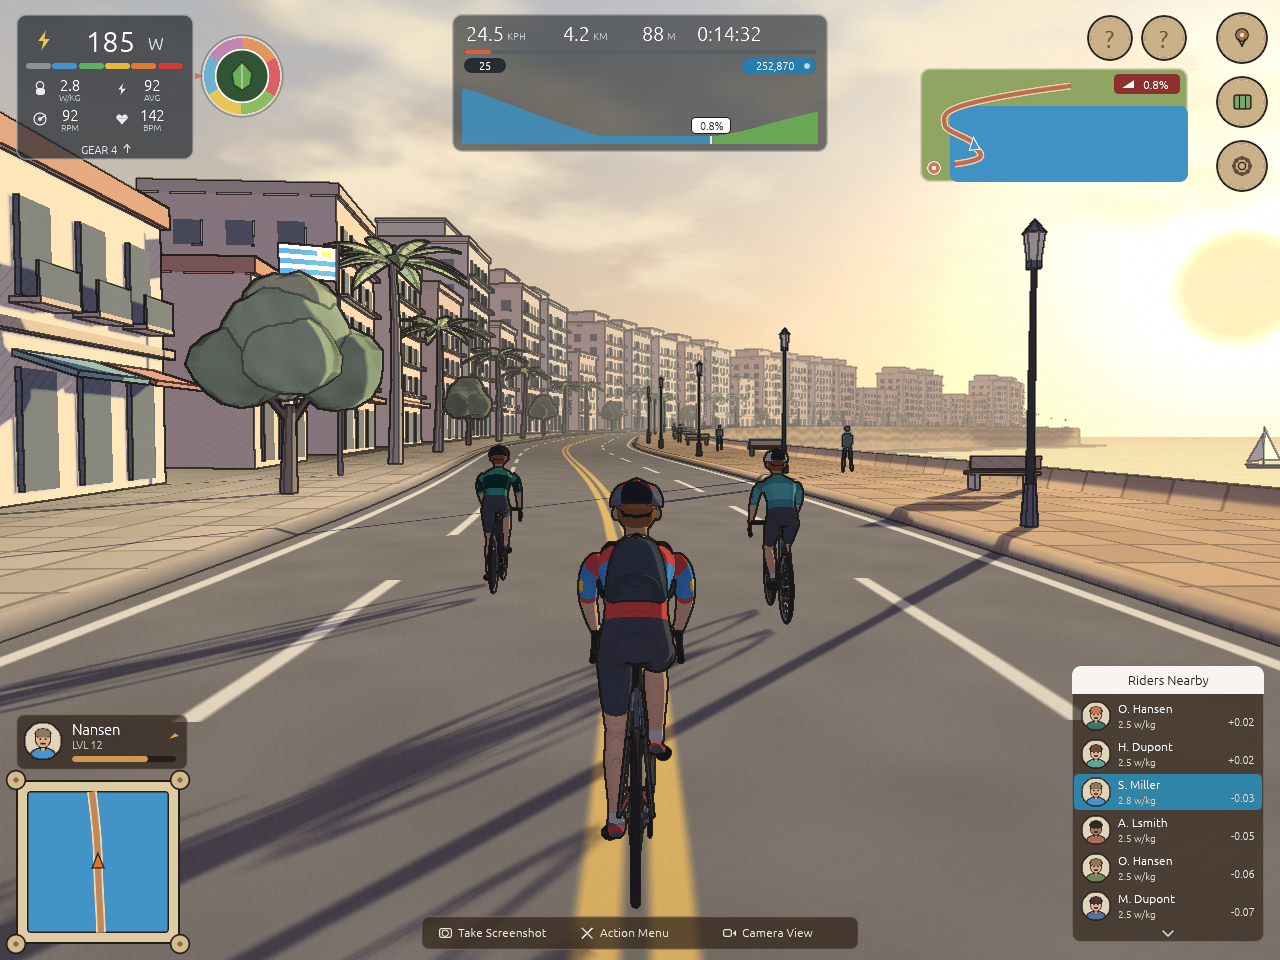
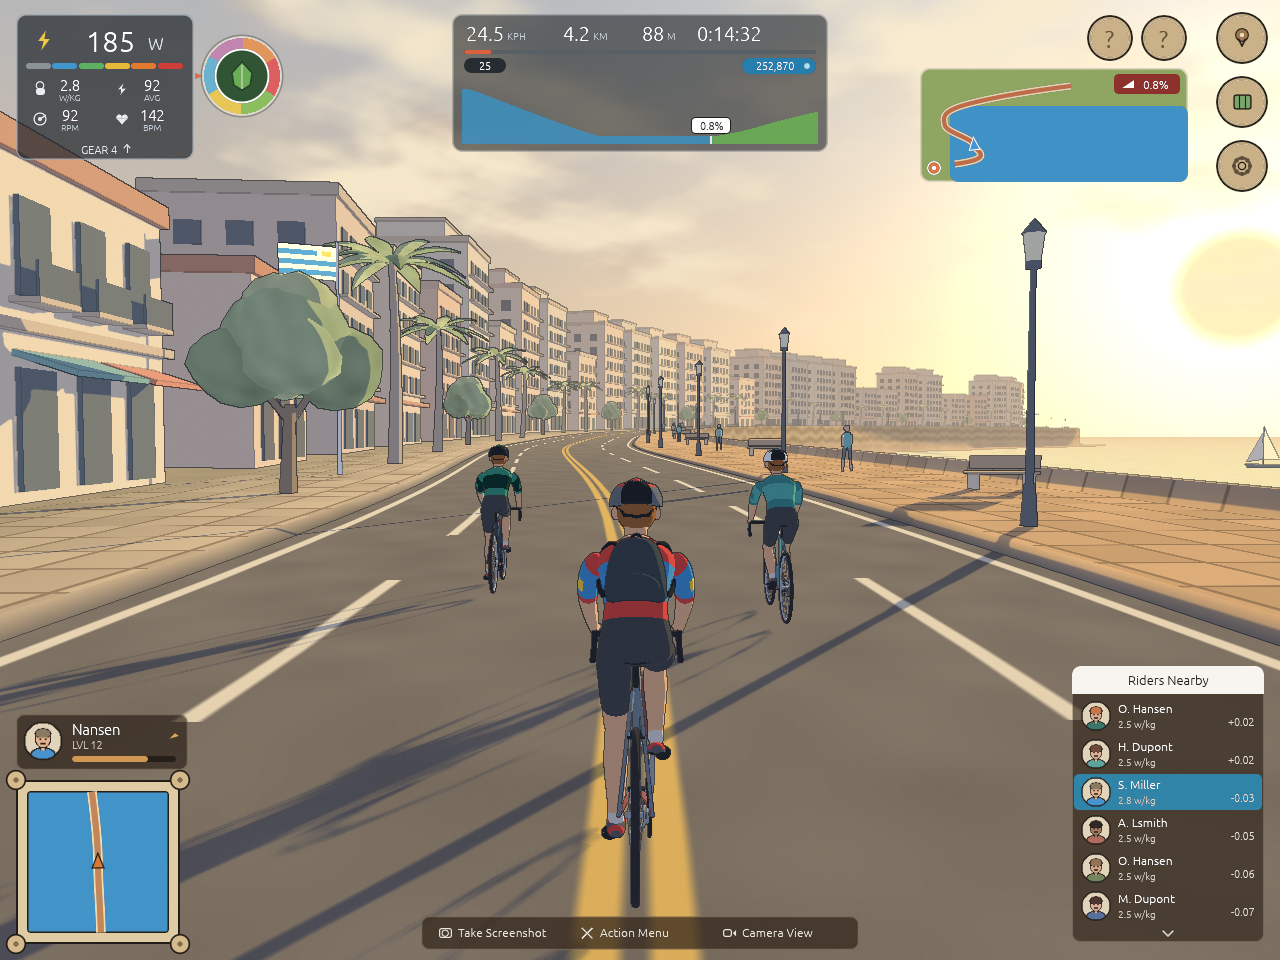
Switch to 1px 32-bit depth silhouettes, remove internal lines, and clean cel shading

diff --git a/src/renderer/mod.rs b/src/renderer/mod.rs
@@ -348,6 +348,16 @@ impl LigneClaireRenderer {
                     ty: wgpu::BindingType::Sampler(wgpu::SamplerBindingType::NonFiltering),
                     count: None,
                 },
+                wgpu::BindGroupLayoutEntry {
+                    binding: 5,
+                    visibility: wgpu::ShaderStages::FRAGMENT,
+                    ty: wgpu::BindingType::Texture {
+                        sample_type: wgpu::TextureSampleType::Depth,
+                        view_dimension: wgpu::TextureViewDimension::D2,
+                        multisampled: false,
+                    },
+                    count: None,
+                },
             ],
         });
 
@@ -728,6 +738,10 @@ impl LigneClaireRenderer {
                     binding: 4,
                     resource: wgpu::BindingResource::Sampler(gbuf_sampler),
                 },
+                wgpu::BindGroupEntry {
+                    binding: 5,
+                    resource: wgpu::BindingResource::TextureView(&scene_depth_view),
+                },
             ],
         });
 
@@ -849,9 +863,9 @@ impl LigneClaireRenderer {
                 56.0,
             ),
             CameraMode::Side => (
-                player_pos + right * 2.55 + up * 1.12 - forward * 0.35,
-                player_pos + up * 0.88,
-                44.0,
+                player_pos + right * 2.75 + up * 1.16 - forward * 0.30,
+                player_pos + up * 1.00,
+                48.0,
             ),
             CameraMode::FirstPerson => (
                 player_pos + up * 1.58 + forward * 0.25,
@@ -923,7 +937,7 @@ impl LigneClaireRenderer {
                 1.0 / target_width.max(1) as f32,
                 1.0 / target_height.max(1) as f32,
             ],
-            outline_params: [0.22, 0.44, 0.96, 0.016],
+            outline_params: [0.036, 0.85, 0.80, 0.003],
         };
         queue.write_buffer(&self.frame_buf, 0, bytemuck::bytes_of(&frame_u));
 
@@ -939,12 +953,12 @@ impl LigneClaireRenderer {
             scene_draws.push(DrawItem { offset_bytes: off, model_id: None, section_idx: 0, world_kind: 1 });
         }
         if self.world_bufs.terrain.is_some() {
-            let off = self.push_obj_uniform(device, draw_count, Mat4::IDENTITY, [1.0; 4], 2, 0.72, 0.75);
+            let off = self.push_obj_uniform(device, draw_count, Mat4::IDENTITY, [1.0; 4], 2, 0.68, 0.0);
             draw_count += 1;
             scene_draws.push(DrawItem { offset_bytes: off, model_id: None, section_idx: 0, world_kind: 2 });
         }
         if self.world_bufs.wire.is_some() {
-            let off = self.push_obj_uniform(device, draw_count, Mat4::IDENTITY, [1.0; 4], 3, 0.65, 0.0);
+            let off = self.push_obj_uniform(device, draw_count, Mat4::IDENTITY, [1.0; 4], 3, 0.55, 0.0);
             draw_count += 1;
             scene_draws.push(DrawItem { offset_bytes: off, model_id: None, section_idx: 0, world_kind: 3 });
         }
@@ -964,6 +978,15 @@ impl LigneClaireRenderer {
                 continue;
             }
             let num_secs = self.models.get(&p.model).map(|m| m.sections.len()).unwrap_or(0);
+            // Keep internal crease lines strictly off organic/rock/foliage geometry (silhouette-only!)
+            // and allow subtle architectural corner creases only on crisp man-made structures.
+            let crease_s = match p.model {
+                ModelId::ColonialTownhouse
+                | ModelId::CoastalBuildingTall
+                | ModelId::CoastalBuildingMid
+                | ModelId::RanchHouse => 0.45,
+                _ => 0.0,
+            };
             let off = self.push_obj_uniform(
                 device,
                 draw_count,
@@ -971,7 +994,7 @@ impl LigneClaireRenderer {
                 p.tint,
                 p.object_id,
                 p.outline_weight,
-                p.crease_sensitivity,
+                crease_s,
             );
             draw_count += 1;
             let in_shadow = p.cast_shadow && pos.distance(shadow_center) < 34.0;
@@ -1029,9 +1052,9 @@ impl LigneClaireRenderer {
             let pos = rp.transform.w_axis.truncate();
             let in_shadow = pos.distance(shadow_center) < 34.0;
             let (outline_w, crease_s) = match rp.model {
-                ModelId::RiderTorso | ModelId::RiderThigh | ModelId::RiderCalfShoe => (0.95, 0.20),
-                ModelId::RiderHeadHelmet | ModelId::RiderBackpack => (0.95, 0.36),
-                _ => (0.92, 0.58),
+                ModelId::BikeWheel => (0.72, 0.0),
+                ModelId::BikeFrame | ModelId::BikeCrank => (0.86, 0.0),
+                _ => (0.92, 0.0),
             };
             for (si, role) in sec_roles.into_iter().enumerate() {
                 let tint = match role {
